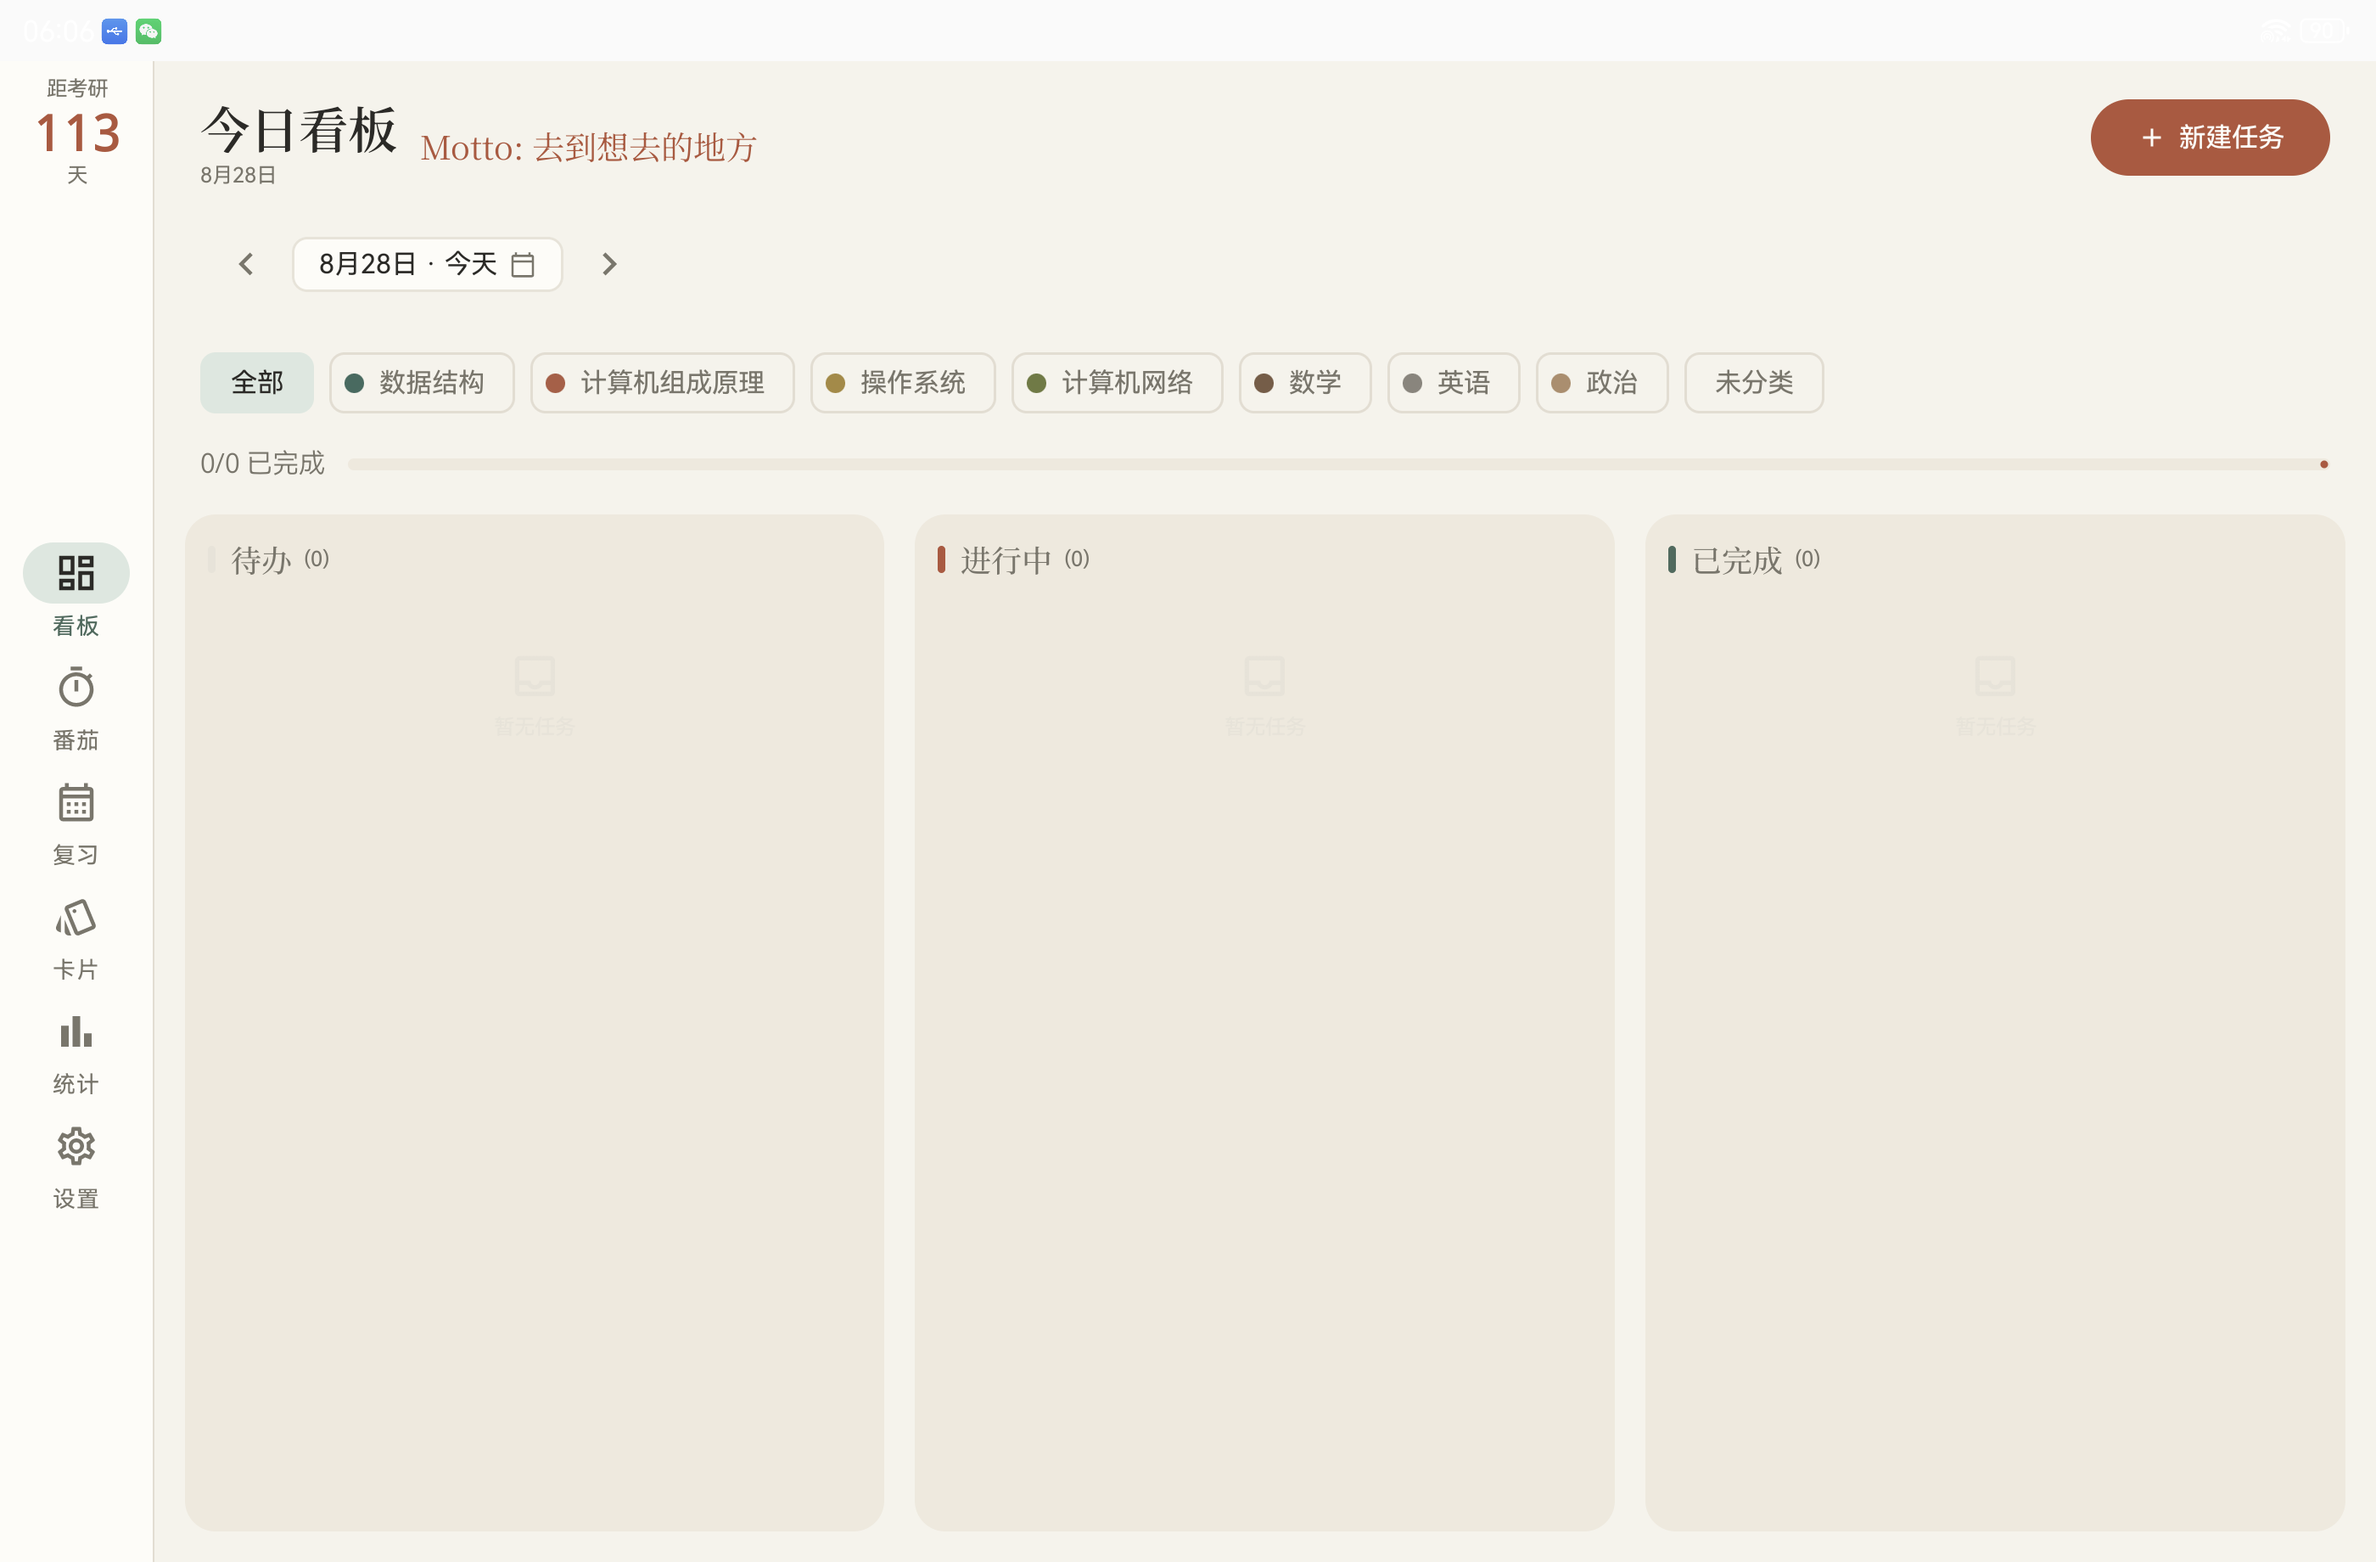
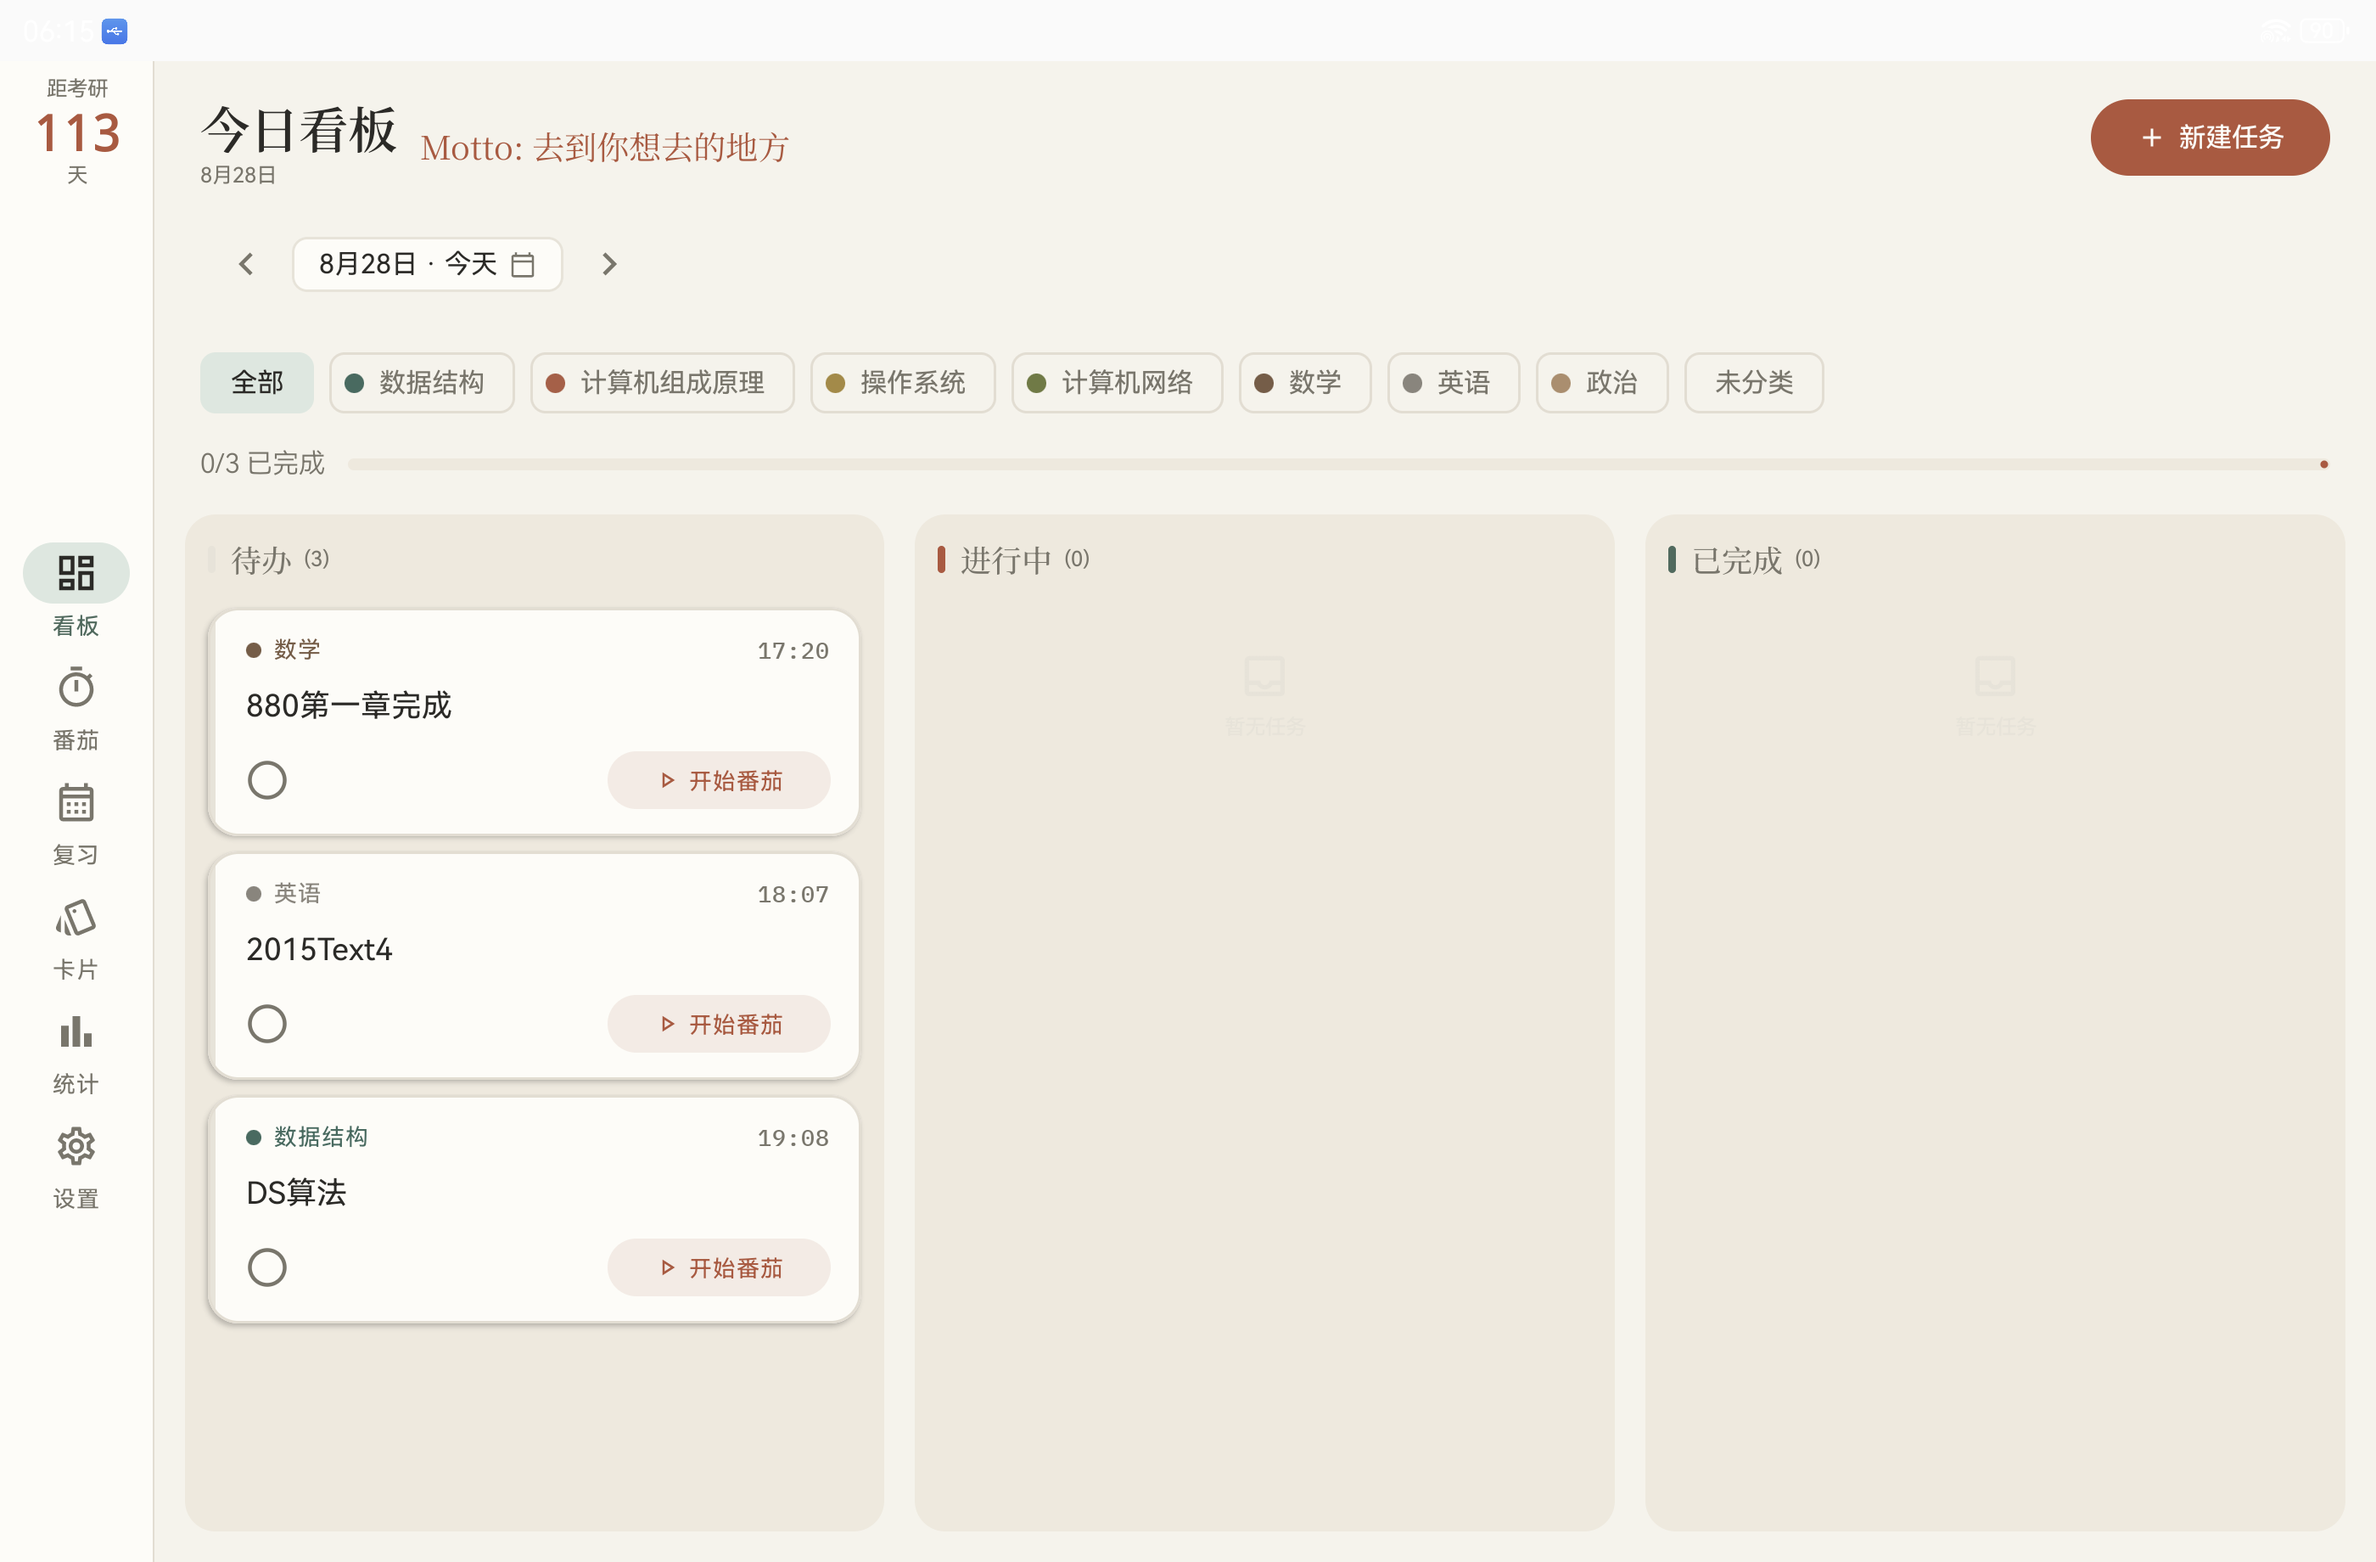
feat: 看板三列加weight(1f)可内部滚动 + 自绘细滚动条(任务多时显示,thumb随滚动,16dp圆角,消除尖角矩形结构)

Changed region(s): [[0.0621, 0.3717, 0.3729, 0.8674], [0.2486, 0.062, 0.3107, 0.1239]]

diff --git a/app/src/main/java/com/tomatodo/ui/board/BoardScreen.kt b/app/src/main/java/com/tomatodo/ui/board/BoardScreen.kt
@@ -9,6 +9,7 @@ import androidx.compose.animation.fadeIn
 import androidx.compose.animation.fadeOut
 import androidx.compose.animation.slideInHorizontally
 import androidx.compose.animation.togetherWith
+import androidx.compose.foundation.Canvas
 import androidx.compose.foundation.background
 import androidx.compose.foundation.clickable
 import androidx.compose.foundation.layout.Arrangement
@@ -26,8 +27,10 @@ import androidx.compose.foundation.layout.width
 import androidx.compose.foundation.shape.CircleShape
 import androidx.compose.foundation.shape.RoundedCornerShape
 import androidx.compose.foundation.lazy.LazyColumn
+import androidx.compose.foundation.lazy.LazyListState
 import androidx.compose.foundation.lazy.LazyRow
 import androidx.compose.foundation.lazy.items
+import androidx.compose.foundation.lazy.rememberLazyListState
 import androidx.compose.material.icons.Icons
 import androidx.compose.material.icons.outlined.Add
 import androidx.compose.material.icons.outlined.CalendarToday
@@ -484,6 +487,7 @@ private fun BoardColumn(
     modifier: Modifier = Modifier
 ) {
     val columnTasks = tasks.filter { it.status == status }
+    val listState = rememberLazyListState()
     // 列底用深一档的 surfaceVariant，衬出纸白任务卡（避免卡片与底色融合）
     Surface(
         modifier = modifier,
@@ -511,59 +515,108 @@ private fun BoardColumn(
             if (columnTasks.isEmpty()) {
                 EmptyColumnHint()
             } else {
-                LazyColumn(
-                    verticalArrangement = Arrangement.spacedBy(8.dp),
-                    contentPadding = PaddingValues(bottom = 8.dp)
-                ) {
-                    items(columnTasks, key = { it.id }) { task ->
-                        val dismissState = rememberSwipeToDismissBoxState(
-                            confirmValueChange = { value ->
-                                if (value == SwipeToDismissBoxValue.EndToStart) {
-                                    onDelete(task)
-                                    true
-                                } else {
-                                    false
-                                }
-                            }
-                        )
-                        Box(Modifier.animateItem()) {
-                            SwipeToDismissBox(
-                                state = dismissState,
-                                enableDismissFromStartToEnd = false,
-                                backgroundContent = {
-                                    // 与任务卡同款 16dp 圆角，避免露出直角"尖角矩形"
-                                    Row(
-                                        Modifier
-                                            .fillMaxSize()
-                                            .clip(RoundedCornerShape(16.dp))
-                                            .background(MaterialTheme.colorScheme.errorContainer),
-                                        horizontalArrangement = Arrangement.End,
-                                        verticalAlignment = Alignment.CenterVertically
-                                    ) {
-                                        Text(
-                                            "删除",
-                                            style = MaterialTheme.typography.labelLarge,
-                                            color = MaterialTheme.colorScheme.onErrorContainer,
-                                            modifier = Modifier.padding(horizontal = 20.dp)
-                                        )
+                // weight(1f) 占满列内剩余高度，让列表可内部滚动；右侧叠加可见滚动条
+                Box(Modifier.weight(1f).fillMaxWidth()) {
+                    LazyColumn(
+                        state = listState,
+                        verticalArrangement = Arrangement.spacedBy(8.dp),
+                        contentPadding = PaddingValues(top = 2.dp, bottom = 8.dp),
+                        modifier = Modifier.fillMaxSize()
+                    ) {
+                        items(columnTasks, key = { it.id }) { task ->
+                            val dismissState = rememberSwipeToDismissBoxState(
+                                confirmValueChange = { value ->
+                                    if (value == SwipeToDismissBoxValue.EndToStart) {
+                                        onDelete(task)
+                                        true
+                                    } else {
+                                        false
                                     }
                                 }
-                            ) {
-                                TaskCard(
-                                    task = task,
-                                    subject = subjectById[task.subjectId],
-                                    readOnly = readOnly,
-                                    onToggle = { onToggle(task) },
-                                    onEdit = { onEdit(task) },
-                                    onStartPomodoro = if (status == TaskStatus.DONE) null
-                                        else onStart?.let { handler -> { handler(task) } }
-                                )
+                            )
+                            Box(Modifier.animateItem()) {
+                                SwipeToDismissBox(
+                                    state = dismissState,
+                                    enableDismissFromStartToEnd = false,
+                                    backgroundContent = {
+                                        // 与任务卡同款 16dp 圆角，避免露出直角"尖角矩形"
+                                        Row(
+                                            Modifier
+                                                .fillMaxSize()
+                                                .clip(RoundedCornerShape(16.dp))
+                                                .background(MaterialTheme.colorScheme.errorContainer),
+                                            horizontalArrangement = Arrangement.End,
+                                            verticalAlignment = Alignment.CenterVertically
+                                        ) {
+                                            Text(
+                                                "删除",
+                                                style = MaterialTheme.typography.labelLarge,
+                                                color = MaterialTheme.colorScheme.onErrorContainer,
+                                                modifier = Modifier.padding(horizontal = 20.dp)
+                                            )
+                                        }
+                                    }
+                                ) {
+                                    TaskCard(
+                                        task = task,
+                                        subject = subjectById[task.subjectId],
+                                        readOnly = readOnly,
+                                        onToggle = { onToggle(task) },
+                                        onEdit = { onEdit(task) },
+                                        onStartPomodoro = if (status == TaskStatus.DONE) null
+                                            else onStart?.let { handler -> { handler(task) } }
+                                    )
+                                }
                             }
                         }
                     }
+                    // 可见滚动条：Box 内的兄弟节点（LazyColumn 之外）
+                    ListScrollBar(
+                        state = listState,
+                        modifier = Modifier.align(Alignment.CenterEnd).padding(end = 4.dp)
+                    )
                 }
             }
         }
+    }
+}
+
+/** 自绘细滚动条：任务多可滚动时显示，thumb 随滚动位置移动 */
+@Composable
+private fun ListScrollBar(state: LazyListState, modifier: Modifier = Modifier) {
+    val layoutInfo = state.layoutInfo
+    val total = layoutInfo.totalItemsCount
+    val canScroll = state.canScrollBackward || state.canScrollForward
+    if (total <= 0 || !canScroll) return
+    val minThumb = with(androidx.compose.ui.platform.LocalDensity.current) { 36.dp.toPx() }
+
+    val viewport = (layoutInfo.viewportEndOffset - layoutInfo.viewportStartOffset).coerceAtLeast(1)
+    val visibleCount = layoutInfo.visibleItemsInfo.size.coerceAtLeast(1)
+    val thumbHeightPx = (viewport * visibleCount.toFloat() / total).coerceIn(minThumb, viewport.toFloat())
+    val thumbMaxTop = viewport - thumbHeightPx
+    // 按首项位置估算滚动进度（0..1）
+    val first = state.firstVisibleItemIndex.toFloat() +
+        state.firstVisibleItemScrollOffset / (layoutInfo.visibleItemsInfo.firstOrNull()?.size?.coerceAtLeast(1)?.toFloat() ?: 1f)
+    val progress = (first / total).coerceIn(0f, 1f)
+    val thumbTop = thumbMaxTop * progress
+    // 颜色在 Canvas 之外取值（MaterialTheme 是 @Composable，不可在 DrawScope 内调用）
+    val trackColor = MaterialTheme.colorScheme.onSurfaceVariant.copy(alpha = 0.15f)
+    val thumbColor = MaterialTheme.colorScheme.primary.copy(alpha = 0.35f)
+
+    Canvas(modifier) {
+        // 轨道
+        drawRoundRect(
+            color = trackColor,
+            topLeft = androidx.compose.ui.geometry.Offset(size.width - 4.dp.toPx(), 0f),
+            size = androidx.compose.ui.geometry.Size(4.dp.toPx(), size.height)
+        )
+        // thumb
+        drawRoundRect(
+            color = thumbColor,
+            topLeft = androidx.compose.ui.geometry.Offset(size.width - 6.dp.toPx(), thumbTop),
+            size = androidx.compose.ui.geometry.Size(6.dp.toPx(), thumbHeightPx),
+            cornerRadius = androidx.compose.ui.geometry.CornerRadius(3.dp.toPx())
+        )
     }
 }
 
